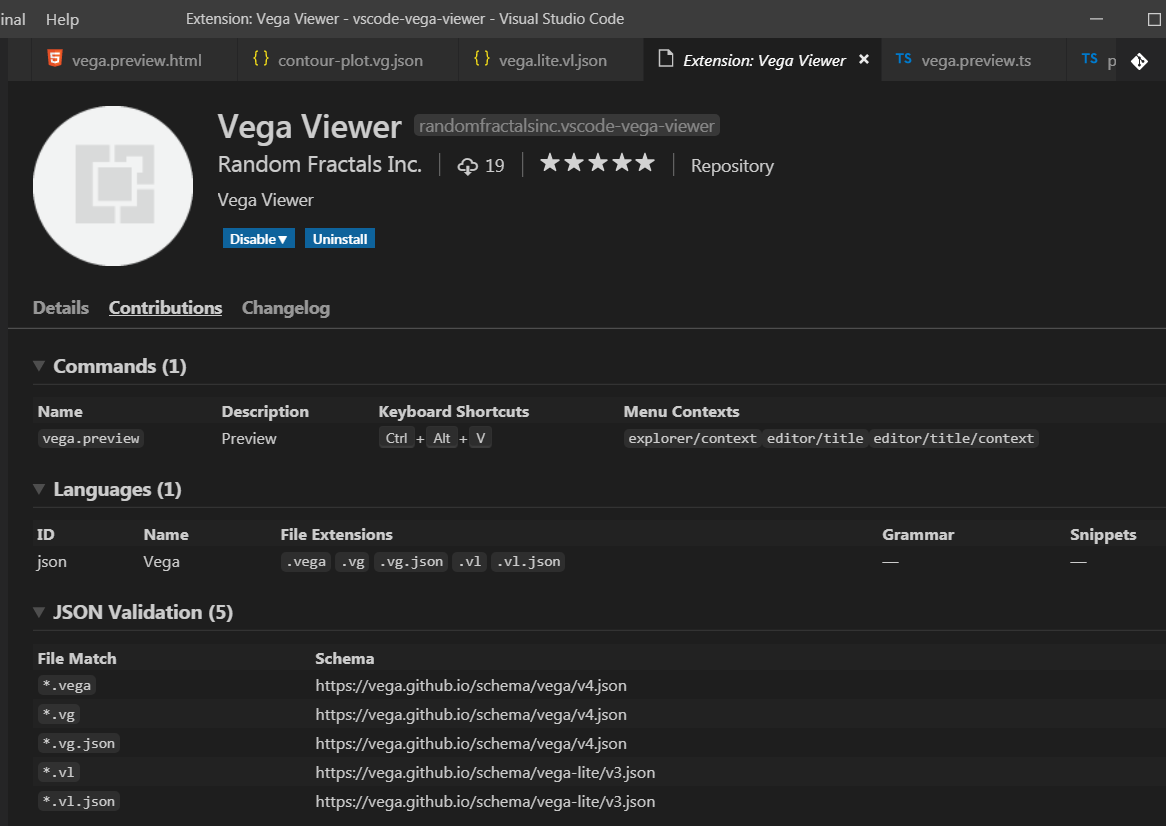
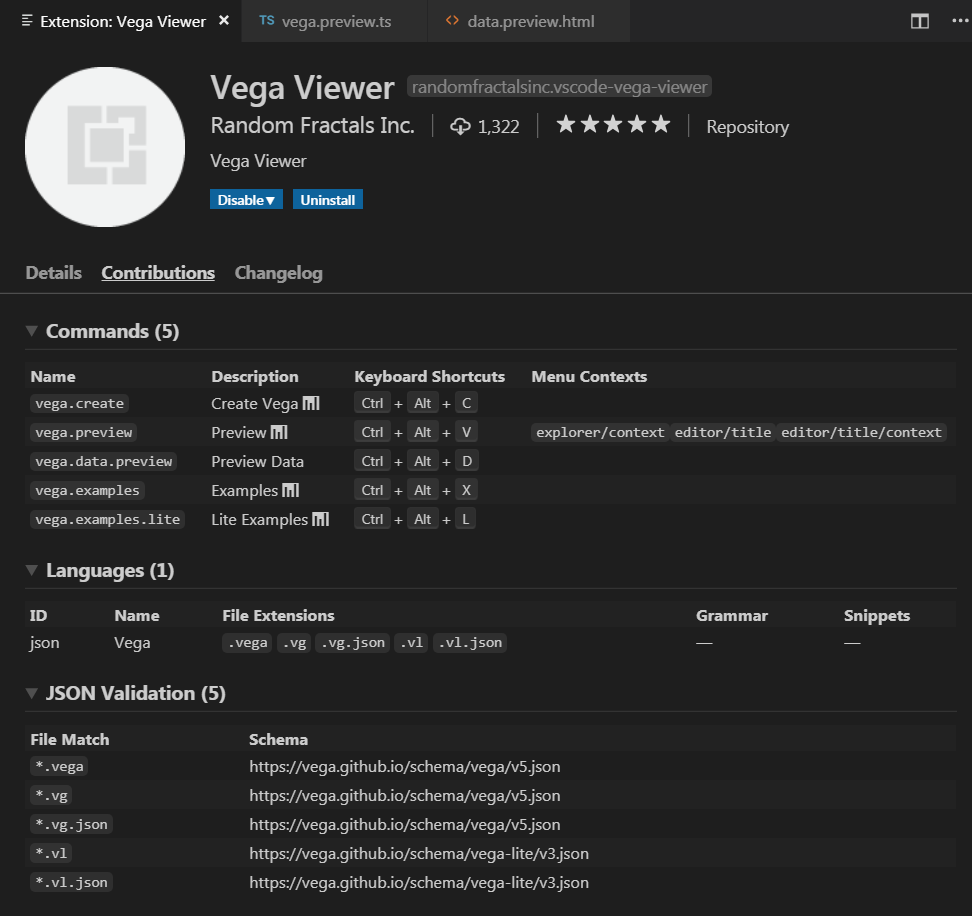
updated ext contributions screen pic to include new vega.data.preview command
removed old contribs images

diff --git a/README.md b/README.md
@@ -41,7 +41,7 @@ The best part of Vega Viewer is you can use it disconnected unlike other online 
 
 # Vega Viewer VSCode Contributions
 
-![Alt text](https://github.com/RandomFractals/vscode-vega-viewer/blob/master/images/vega-viewer-contribs-3.0.png?raw=true 
+![Alt text](https://github.com/RandomFractals/vscode-vega-viewer/blob/master/images/vega-viewer-contributions.png?raw=true 
  "Vega Viewer VSCode Contributions")
 
 # Vega Viewer Commands
